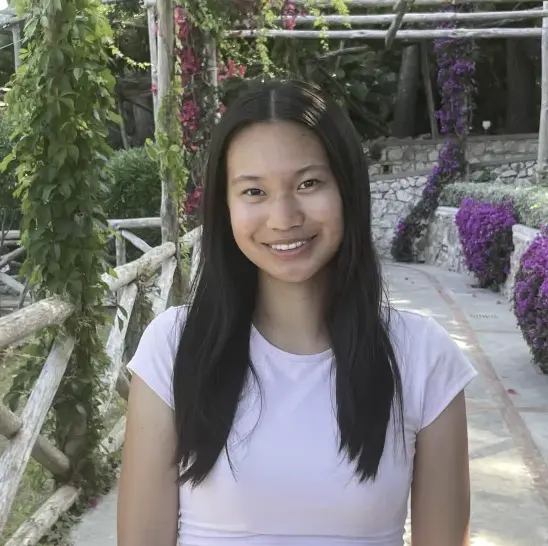
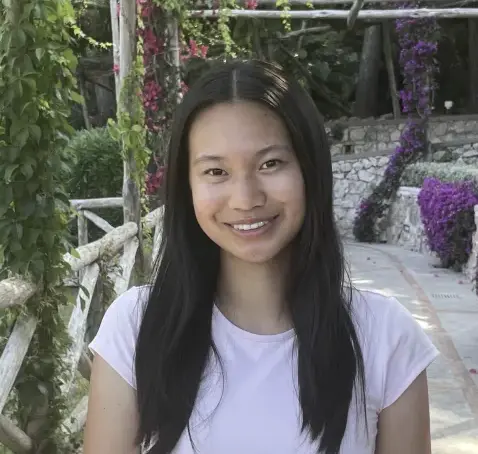
Made some minor additions and edits, mostly gallery media

diff --git a/src/routes/gallery.svelte b/src/routes/gallery.svelte
@@ -18,14 +18,21 @@
 			'/img/gallery/2025/WWdayplay.webp',
 			'/img/gallery/2025/openhouseimg.webp',
 			'/img/gallery/2025/battlecrydark.webp',
-			'/img/gallery/2025/MAstatesrobot.webp',
+			'/img/gallery/2025/MAstatesrobot1.webp',
 			'/img/gallery/2025/DCMPpits.webp',
 			'/img/gallery/2025/WPI1757crowd.webp',
 			'/img/gallery/2025/WPIfield.webp',
 			'/img/gallery/2025/WPIscoring1.webp',
 			'/img/gallery/2025/WPIcrowd2.webp',
 			'/img/gallery/2025/695840_55c94ea4eb624020b8d0af97f87f297d~mv2.webp',
-			'/img/gallery/2025/climb2.webp'
+			'/img/gallery/2025/climb2.webp',
+			'/img/gallery/2025/pits2image.webp',
+			'/img/gallery/2025/NEDCMPscoring2.webp',
+			'/img/gallery/2025/DCMPfield1.webp',
+			'/img/gallery/2025/URIclimb2.webp',
+			'/img/gallery/2025/DCMPcrowdcheer1.webp',
+			'/img/gallery/2025/DCMPcrowdcheer2.webp',
+			'/img/gallery/2025/DCMPscoring2.webp'
 		],
 		'2024': [
 			'/img/gallery/2024/DSC00069.webp',

diff --git a/src/routes/aboutus.svelte b/src/routes/aboutus.svelte
@@ -116,7 +116,7 @@
 			<div class="flex justify-center align-center items-center flex-col">
 				<img 
 					src="/img/team/isabel.webp" 
-					class="rounded-full aspect-square ring-4 w-32 mb-5 -rotate-3 ring-purple-800" />
+					class="rounded-full aspect-square ring-4 w-32 mb-5 -rotate-1 ring-purple-800" />
 				<b>Isabel Wu</b>
 				Business Lead
 			</div>
